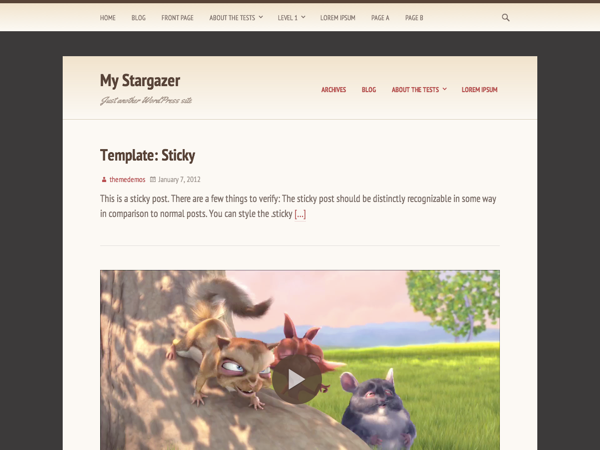
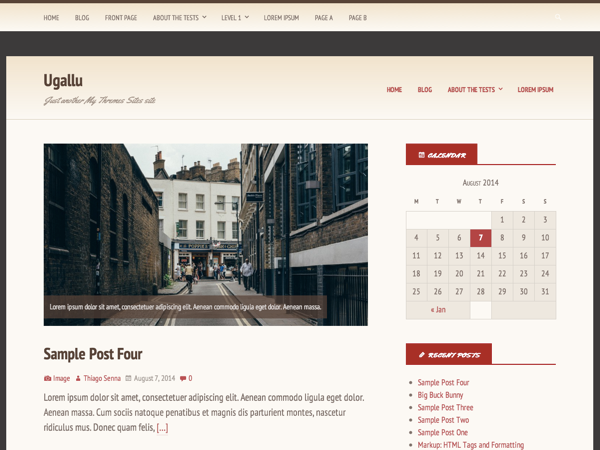
added new screenshot image with the respective credits and license. Also minor fixes on hardcoded protocol for fonts

diff --git a/inc/ugallu.php b/inc/ugallu.php
@@ -71,8 +71,8 @@ final class Ugallu
      */
     function enqueue_fonts()
     {
-        wp_enqueue_style( 'google-fonts-pt-sans', 'http://fonts.googleapis.com/css?family=PT+Sans+Narrow:400,700' );
-        wp_enqueue_style( 'google-fonts-yellowtail', 'http://fonts.googleapis.com/css?family=Yellowtail' );
+        wp_enqueue_style( 'google-fonts-pt-sans', '//fonts.googleapis.com/css?family=PT+Sans+Narrow:400,700' );
+        wp_enqueue_style( 'google-fonts-yellowtail', '//fonts.googleapis.com/css?family=Yellowtail' );
     }
 
 }

diff --git a/README.md b/README.md
@@ -15,3 +15,8 @@ Ugallu is a child theme of Stargazer. You must have it installed to use this the
 * [Entry Views](http://themehybrid.com/plugins/entry-views) by ThemeHybrid
 * [Grid Columns](http://themehybrid.com/plugins/grid-columns) by ThemeHybrid
 * [Whistles](http://themehybrid.com/plugins/whistles) by ThemeHybrid
+
+## Image Credits
+
+By [Unsplash](http://unsplash.com/), licensed under [CC0 1.0](http://creativecommons.org/publicdomain/zero/1.0/)
+* [Image used in screenshot](https://s3.amazonaws.com/ooomf-com-files/apx8EPiSnWoYHSEiUENI_14553734675_699b2aa038_o.jpg) by Daniel Robert P
